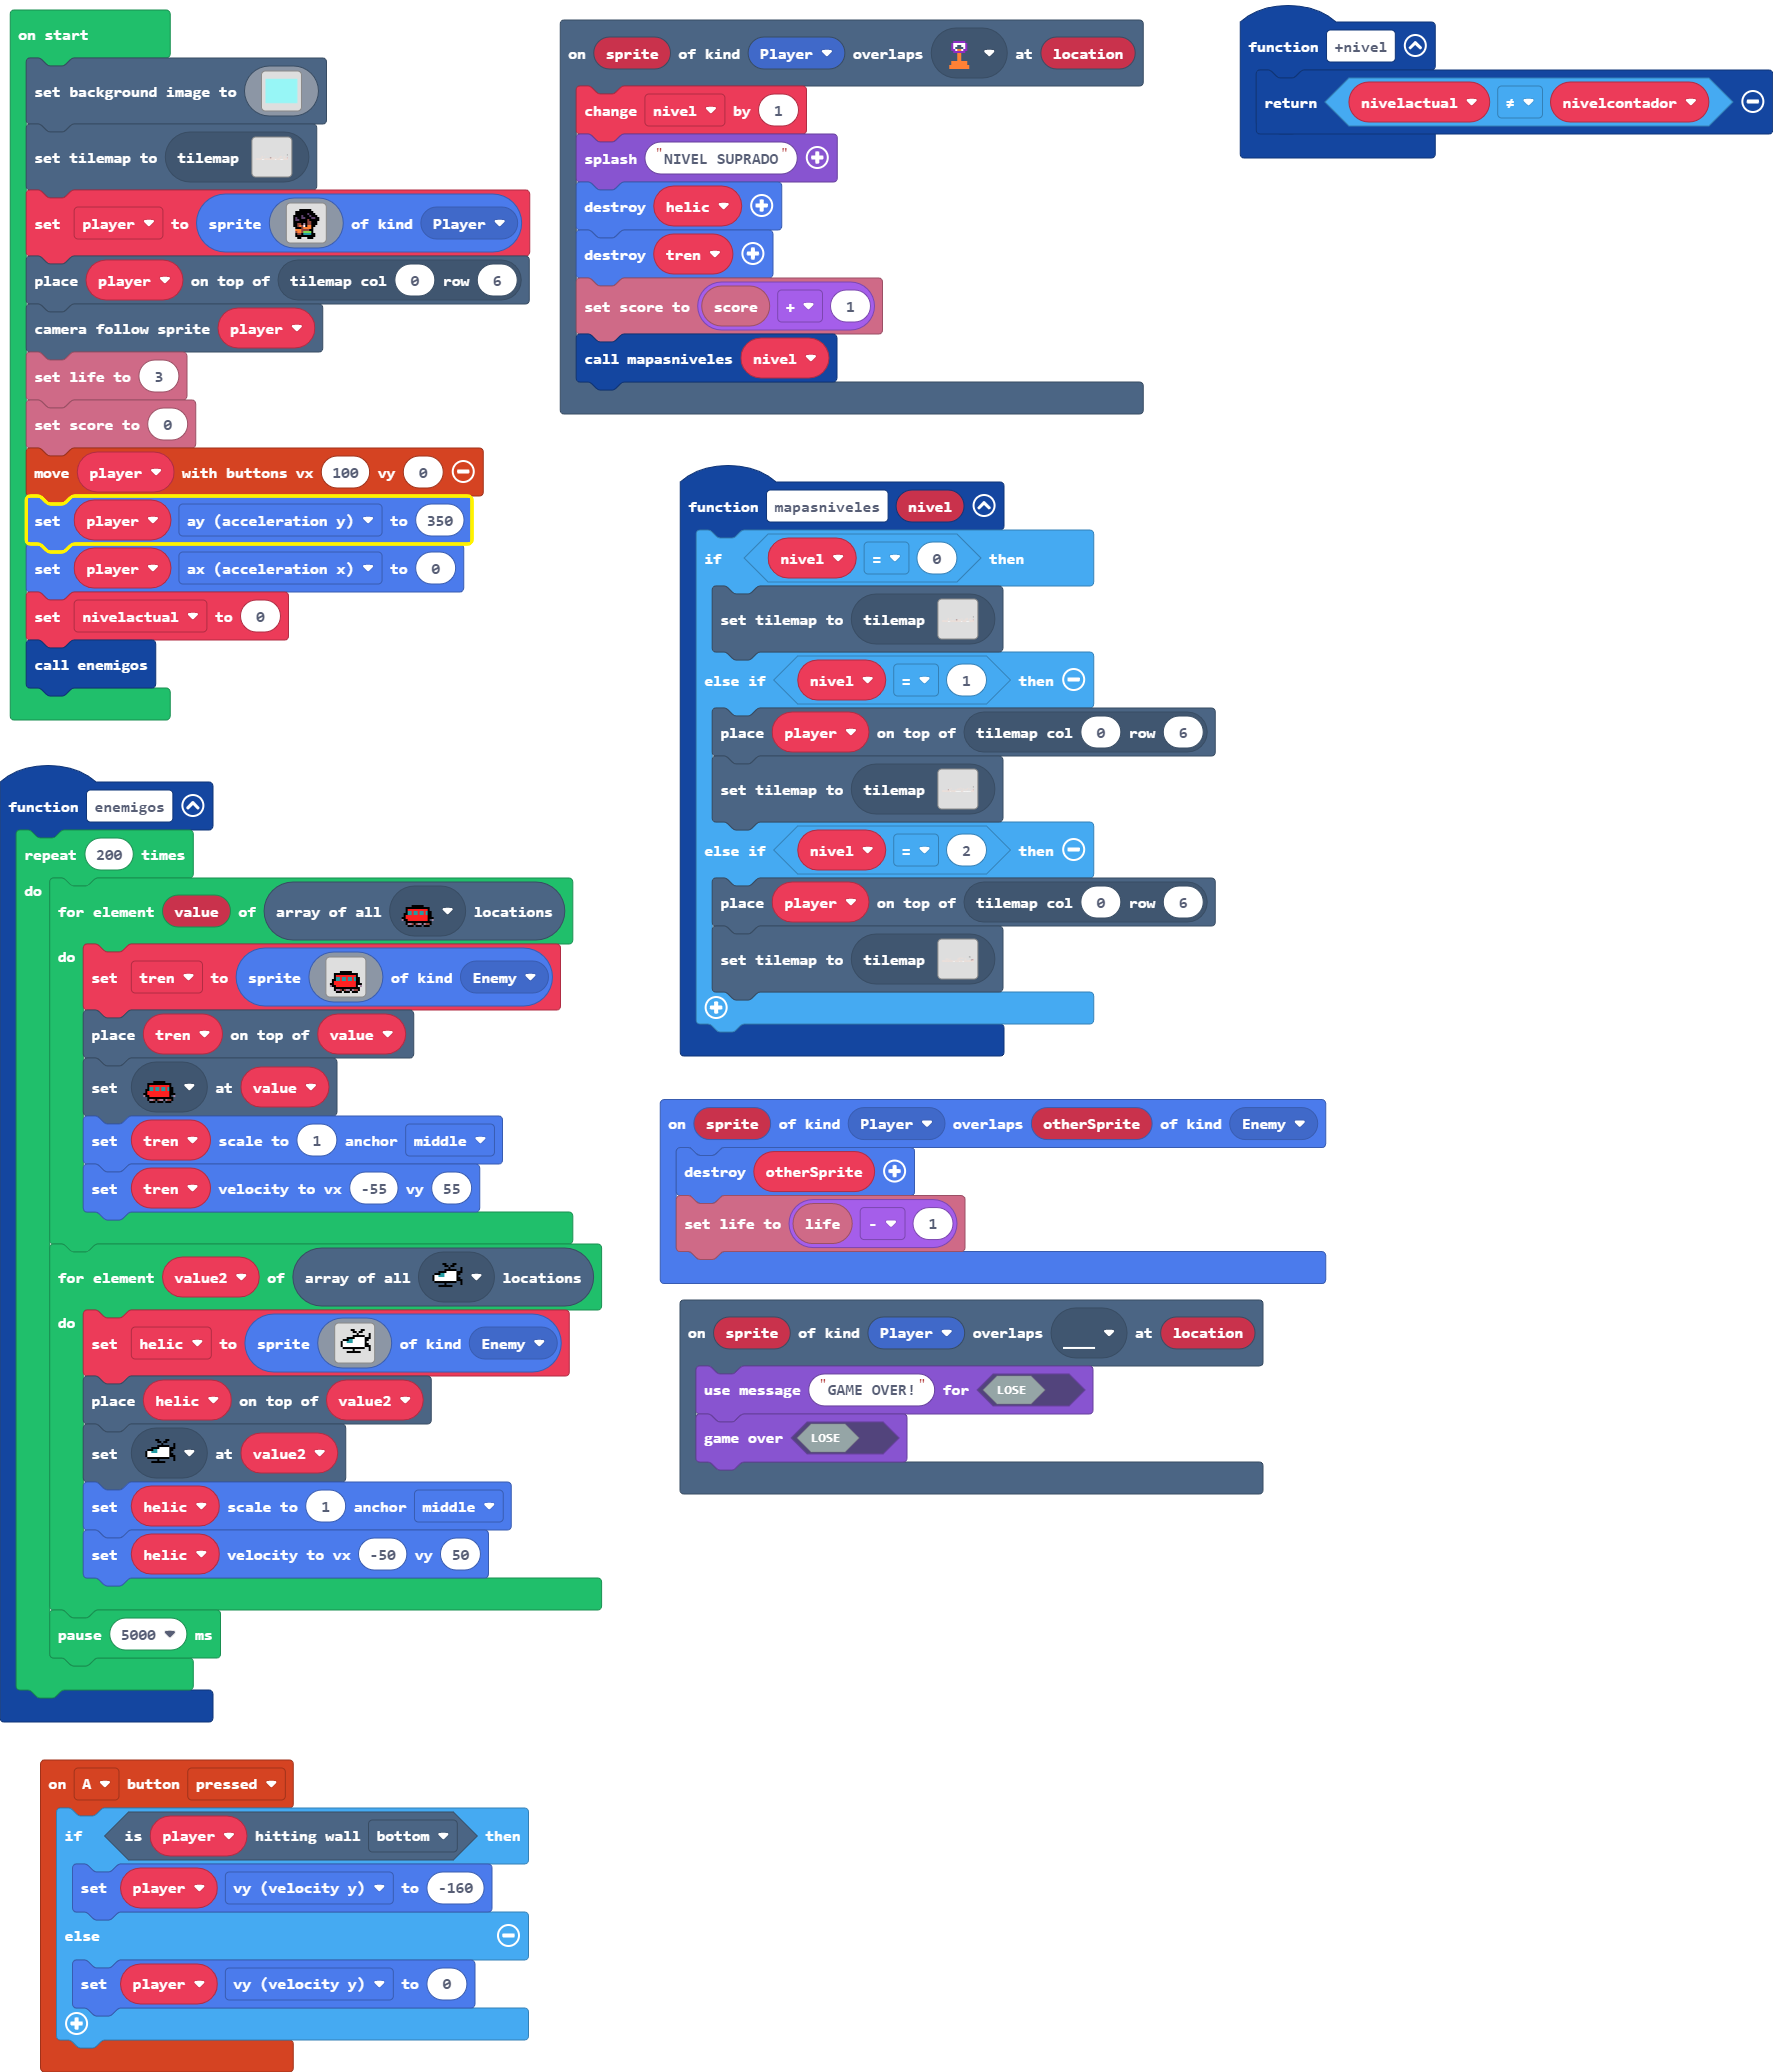
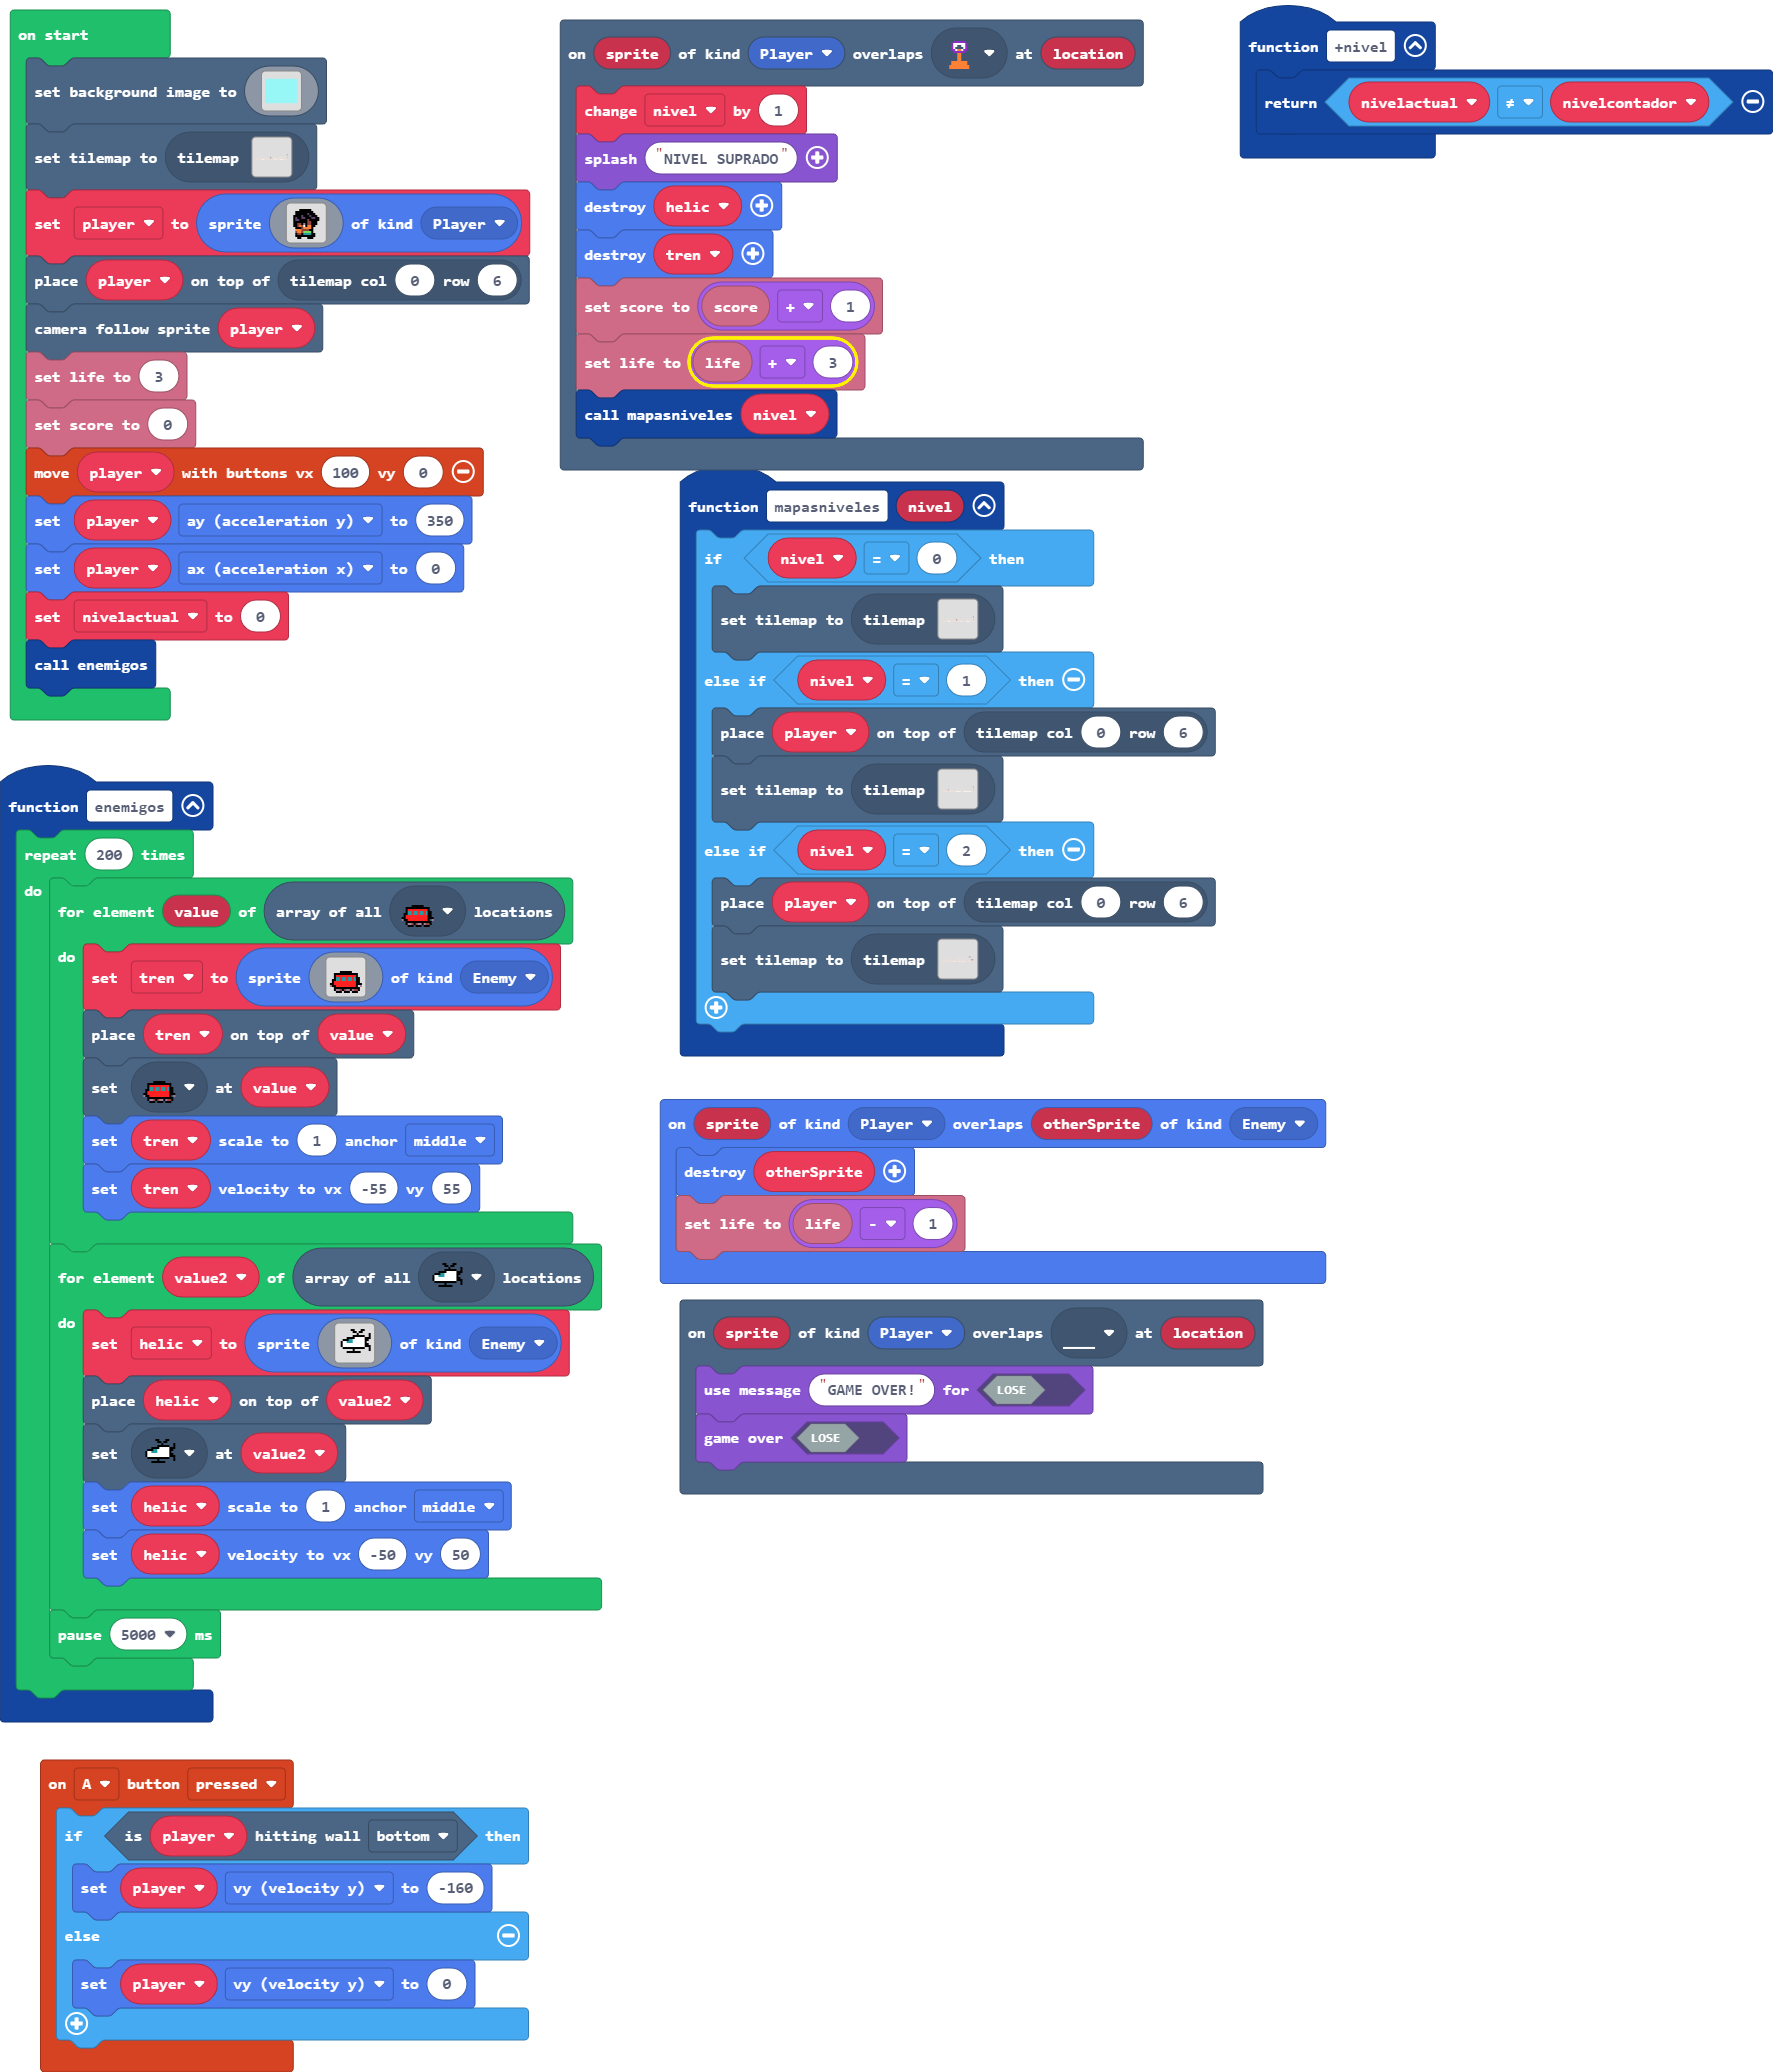
final1.1

Changed region(s): [[0.3102, 0.1544, 0.6514, 0.2471]]

diff --git a/main.ts b/main.ts
@@ -4,6 +4,7 @@ scene.onOverlapTile(SpriteKind.Player, assets.tile`myTile`, function (sprite, lo
     sprites.destroy(helic)
     sprites.destroy(tren)
     info.setScore(info.score() + 1)
+    info.setLife(info.life() + 3)
     mapasniveles(nivel2)
 })
 function nivel () {
